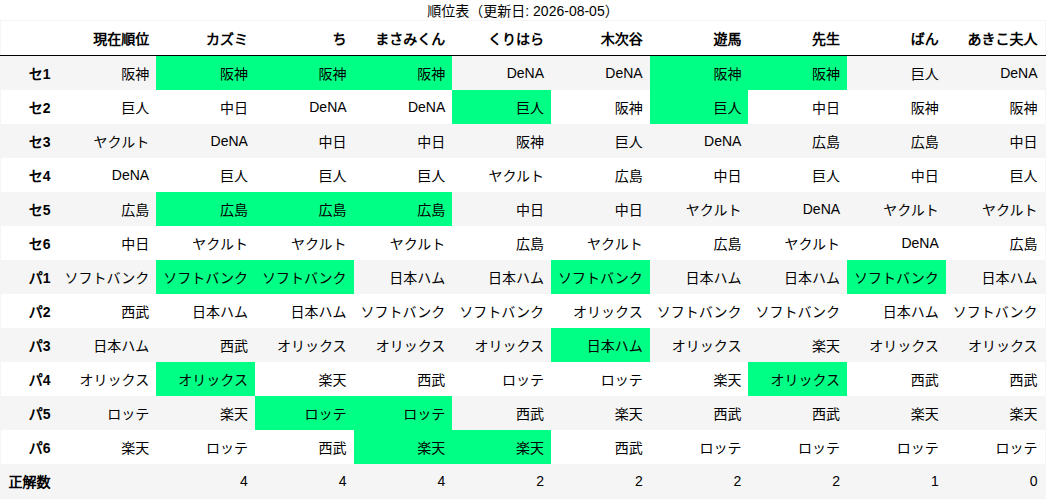
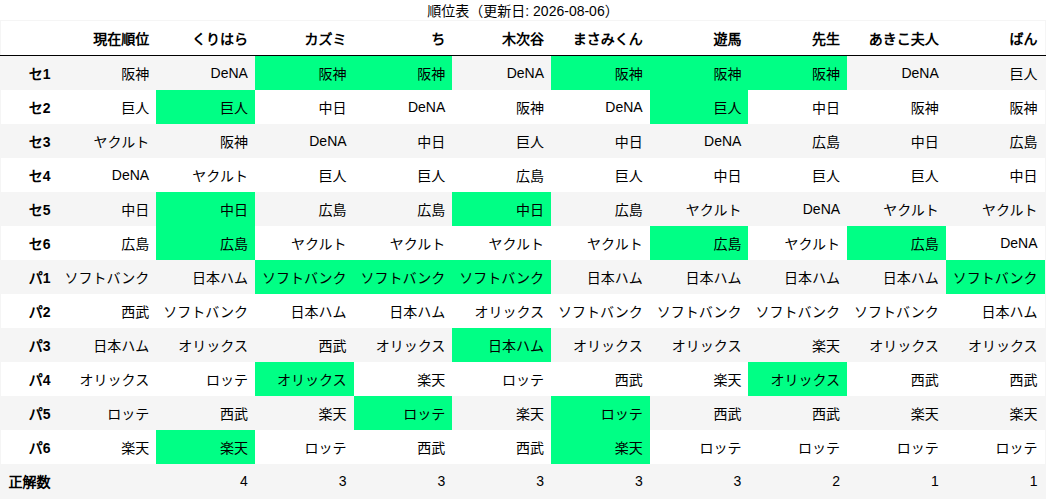
Daily ranking update

diff --git a/README.md b/README.md
@@ -1,6 +1,6 @@
 # 📊 プロ野球順位予想
 
-最終更新日: 2026-08-05
+最終更新日: 2026-08-06
 
 ## 最新順位表
 ![最新順位表](ranking_table.jpeg)
